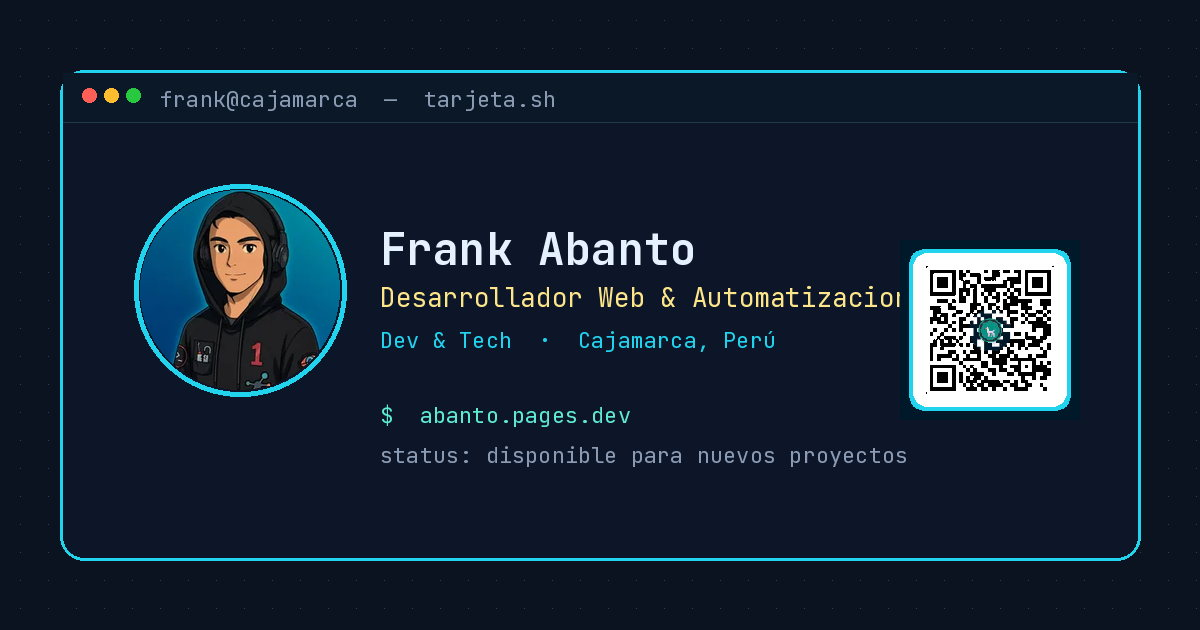
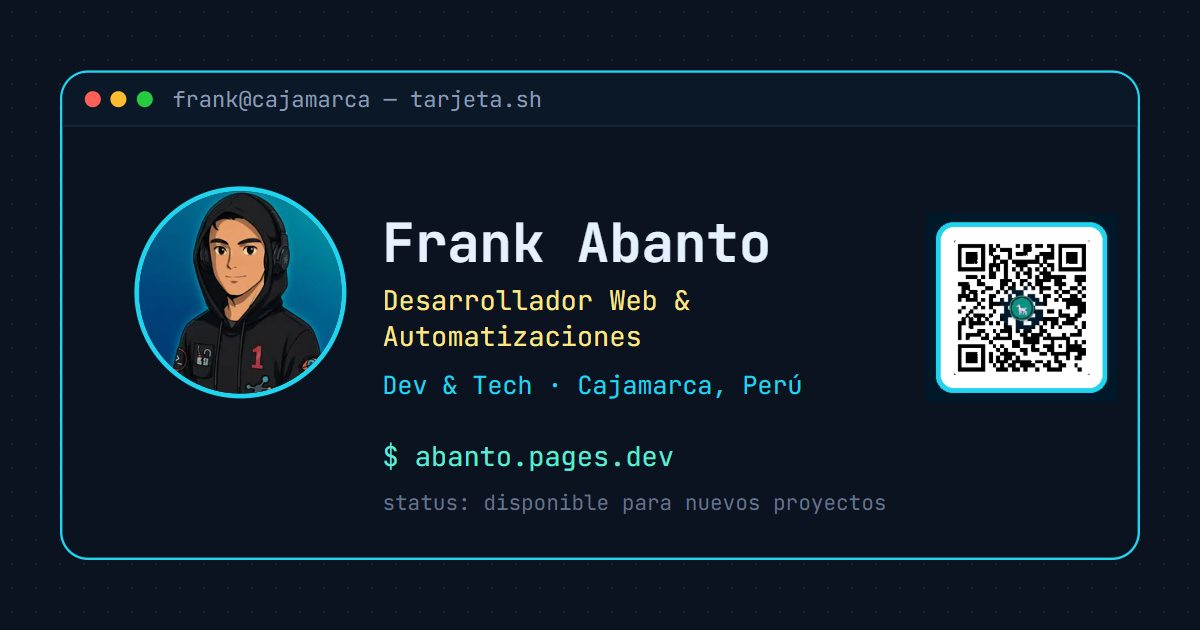
Pulido: politica de contenido, boton QR de 44 px, imagen para compartir sin texto cortado y README con vista previa

diff --git a/index.html b/index.html
@@ -3,6 +3,7 @@
 <head>
   <meta charset="utf-8">
   <meta name="viewport" content="width=device-width, initial-scale=1">
+  <meta http-equiv="Content-Security-Policy" content="default-src 'self'; script-src 'sha256-9RrhsIFM+HCsLb63+HEJx48VKhrsBCVgCGLo0Rpsu4A='; style-src 'self' 'unsafe-inline'; img-src 'self' data:; font-src 'self'; connect-src 'none'; object-src 'none'; base-uri 'none'; form-action 'none'">
   <meta name="theme-color" content="#0B1220">
   <meta name="color-scheme" content="dark">
   <title>Frank Abanto · Dev &amp; Tech</title>
@@ -61,7 +62,7 @@
     .chrome-title{flex:1;min-width:0;color:var(--muted);font-size:12px;white-space:nowrap;overflow:hidden;text-overflow:ellipsis}
     .llama{flex-shrink:0;width:22px;height:22px;color:var(--text)}
     .icon-btn{appearance:none;background:transparent;border:1px solid var(--line);
-      color:var(--cyan);border-radius:8px;width:36px;height:36px;display:grid;place-items:center;
+      color:var(--cyan);border-radius:8px;width:44px;height:44px;display:grid;place-items:center;
       cursor:pointer}
     .icon-btn:hover,.icon-btn:focus-visible{border-color:var(--cyan);background:rgba(34,211,238,.08)}
     :focus-visible{outline:none;box-shadow:var(--focus)}

diff --git a/README.md b/README.md
@@ -1,13 +1,26 @@
 # Frank Abanto — Tarjeta digital
 
-Tarjeta de presentación en estilo terminal, con enlaces a redes, código QR, vCard y botón de compartir.
+<a href="https://frankusqabant.github.io/">
+  <img src="assets/og.jpg" alt="Tarjeta digital de Frank Abanto en estilo terminal" width="100%">
+</a>
 
-👉 **[https://frankusqabant.github.io](https://frankusqabant.github.io)**
+**[Ver la tarjeta](https://frankusqabant.github.io/)**
 
-- Desarrollador Web & Automatizaciones · Dev & Tech · Cajamarca, Perú
-- Portafolio: [abanto.pages.dev](https://abanto.pages.dev)
-- Primera carga ligera (~67 KB): sin frameworks, fuente JetBrains Mono autoalojada, avatar y QR locales.
+Tarjeta de presentación en estilo terminal: enlaces a redes, código QR, contacto para guardar (vCard) y botón de compartir.
 
-Los enlaces se editan en el objeto `CONFIG` de `index.html`.
+- **Ligera y privada.** Unos 43 KB en la primera carga, sin frameworks. Fuente, avatar y QR propios, sin peticiones a terceros y nada guardado en el navegador.
+- **Segura.** Política de contenido dentro del HTML: solo permite el script de la propia tarjeta.
 
-© 2026 Frank Abanto
+## Estructura
+
+```
+index.html   la tarjeta (HTML, CSS y JS en un solo archivo)
+assets/      avatar, QR, favicon, imagen para compartir y fuentes
+```
+
+## Editar y publicar
+
+Los enlaces se editan en el objeto `CONFIG` de `index.html`. Publicar es hacer `git push` a `main` (GitHub Pages).
+Si cambias el script, recalcula su huella `sha256` en la política de contenido (`<meta http-equiv="Content-Security-Policy">`).
+
+MIT · © 2026 Frank Abanto
